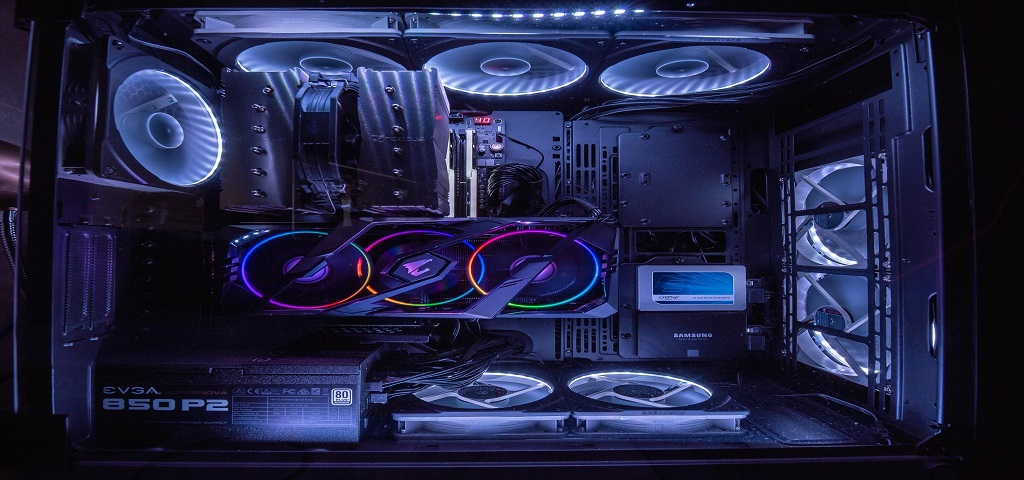
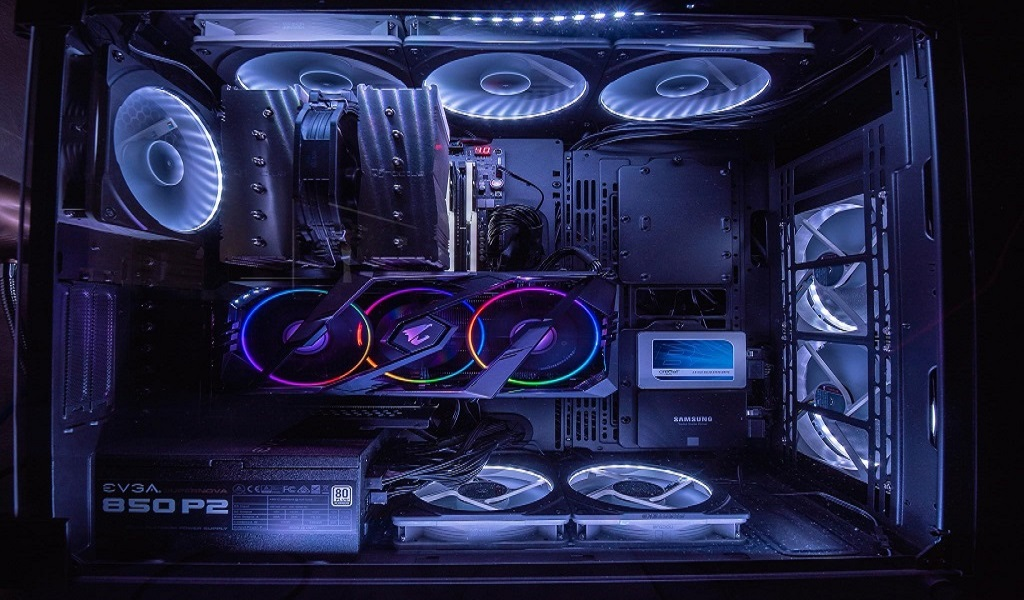
Some changes
Homepage redesign abit, added logo, redesigned tnc/ policy / about us, and abit of image resizing

diff --git a/resources/views/about-us.blade.php b/resources/views/about-us.blade.php
@@ -5,7 +5,7 @@
     <meta charset="utf-8">
     <meta name="viewport" content="width=device-width, initial-scale=1">
 
-    <title>Laravel</title>
+    <title>PCPartPicker | About Us</title>
 
     <!-- Fonts -->
     <link href="https://fonts.googleapis.com/css2?family=Nunito:wght@400;600;700&display=swap" rel="stylesheet">
@@ -18,41 +18,39 @@
 
 <body class="antialiased bg-slate-900">
     @include('components.navbar')
-    <div class="text-center mx-auto font-bold text-9xl mt-20 text-slate-50 dark:text-slate-400">About Us</div>
+    <div class="min-h-screen flex flex-col items-center pt-6 sm:pt-0 ">About Us
 
-    <div class="w-full md:max-w-3xl lg:max-w-4xl xl:max-w-5xl
-                mx-auto sm:my-2 md:my-5 lg:my-10 overflow-x-hidden routeMinHeight
-                text-slate-50 dark:text-slate-400">
+    <div class="w-full mt-6 p-6 mx-auto bg-white shadow-md overflow-hidden sm:rounded-lg prose ">
         <h1 class="text-center text-5xl">Our Story</h1>
-        <br />
-        <p class="">Supreme Computer Systems is a Malaysia IT company focused on providing quality services
-            and solutions to satisfy customers needs. Founded in 22nd July 2001 in Kuantan, Pahang, Supreme Computer
-            Systems has fulfilled and satisfied all customer with excellent services to this date. From the day we start
+
+        <p class="text-xl">PCPartPicker is a Malaysia IT company focused on providing quality services
+            and solutions to satisfy customers needs. Founded in 22nd July 2001 in Kuantan, Pahang, PCPartPicker
+            has fulfilled and satisfied all customer with excellent services to this date. From the day we start
             our business, we only been receiving nothing else but complimenets for our top-notch customer service and
-            after sales service. Supreme Computer Systems has sold a wide variety of Softwares and Hardwares to many
+            after sales service. PCPartPicker has sold a wide variety of Softwares and Hardwares to many
             companies and customers, fulfilling their needs for technological advancement.</p>
         <br />
         <h1 class="text-center text-5xl">Our Goal</h1>
-        <br />
-        <p>
-            “SCS ‘s goal is to improve and enhance the competitive position of our clients by providing them what they
+
+        <p class="text-xl">
+            “PCPartPicker‘s goal is to improve and enhance the competitive position of our clients by providing them what they
             want and desire and continuously servicing them with a full range of professional and quality services. We
             prioritize customer satisfaction by providing guidance and solutions to all our customer's needs, allowing
             you to prioritize on your business objectives.
             Although we are founded in the early days, our team is still growing and aiming to achieve more in the
             future. We are a team equipped with highly motavated, well-trained and dedicated staffs.”
         </p>
-
         <br />
         <h1 class="text-center text-5xl">Contact us</h1>
-        <br/>
-    <p class="text-center">Having troubles or any questions? Feel free to contact us anytime, we are glad to assist you!</p>
-	<p class="text-center"> Whatsapp our sales and technical team at: +6019-3491 2323</p>
-	<p class="text-center"> Support Email: support@bruh.my</p>
-	<p class="text-center">Working Hour: 10:00 A.M. - 7:30 P.M. Everyday</p>
-
-
+        <div class="text-center text-xl">
+            <p>Having troubles or any questions? Feel free to contact us anytime, we are glad to assist you!</p>
+	        <p>Whatsapp our sales and technical team at: +6019-3491 2323</p>
+	        <p>Support Email: support@bruh.my</p>
+	        <p>Working Hour: 10:00 A.M. - 7:30 P.M. Everyday</p>
+        </div>
     </div>
+</div>
+
 </body>
 
 </html>

diff --git a/resources/views/terms.blade.php b/resources/views/terms.blade.php
@@ -1,13 +1,26 @@
-<x-guest-layout>
-    <title>TNC</title>
-    @include('components.navbar')
-    <div class="pt-4 bg-gray-100">
-        <div class="min-h-screen flex flex-col items-center pt-6 sm:pt-0">
-            <div>
-                <x-jet-authentication-card-logo />
-            </div>
+<!DOCTYPE html>
+<html lang="{{ str_replace('_', '-', app()->getLocale()) }}" class="scroll-smooth">
 
-            <div class="w-full sm:max-w-2xl mt-6 p-6 bg-white shadow-md overflow-hidden sm:rounded-lg prose">
+<head>
+    <meta charset="utf-8">
+    <meta name="viewport" content="width=device-width, initial-scale=1">
+
+    <title>PCPartPicker | TNC</title>
+
+    <!-- Fonts -->
+    <link href="https://fonts.googleapis.com/css2?family=Nunito:wght@400;600;700&display=swap" rel="stylesheet">
+
+    <!-- Styles -->
+    @livewireStyles
+    <link rel="stylesheet" href="{{ mix('css/app.css') }}">
+
+</head>
+<body>
+    @include('components.navbar')
+    <div class="pt-4 bg-gray-900">
+        <div class="min-h-screen flex flex-col items-center pt-6 sm:pt-0">
+
+            <div class="w-full mt-6 p-6 bg-white shadow-md overflow-hidden sm:rounded-lg prose">
                 <h1 class="text-center">TERMS AND CONDITIONS</h1>
                <p class="antialiased text-xl text-justify">The following terms and conditions govern all use of the pcpartpicker.com website (the Website) and all content, services and products available at or through the website. The Website is owned and operated by PCPartPicker Sdn Bhd.
                    (“PCPartPicker”). The Website is offered subject to your acceptance without modification of all of the terms and conditions contained herein and all other operating rules, policies (including, without limitation, PCPartPicker’s Privacy Policy)
@@ -16,7 +29,7 @@
                 <p class="antialiased text-xl text-justify">Please read this Agreement carefully before accessing or using the Website. By accessing or using any part of the web site, you agree to become bound by the terms and conditions of this agreement.
                 If you do not agree to all the terms and conditions of this agreement, then you may not access the Website or use any services. If these terms and conditions are considered an offer by PCPartPicker, acceptance is expressly limited to these terms.
                 The Website is available only to individuals who are at least 13 years old.</p>
-            </div>
+
             <span class="items-start text-left m-5 ml-10">
             <ol class="list-decimal ">
                 <li class="font-bold antialiased text-2xl text-left">Your Content</li>
@@ -133,4 +146,5 @@
             </span>
         </div>
     </div>
-</x-guest-layout>
+</body>
+</html>

diff --git a/resources/views/policy.blade.php b/resources/views/policy.blade.php
@@ -1,18 +1,32 @@
-<x-guest-layout>
-    @include('components.navbar')
-    <div class="pt-4 bg-gray-100">
-        <div class="min-h-screen flex flex-col items-center pt-6 sm:pt-0">
-            <div>
-                <x-jet-authentication-card-logo />
-            </div>
+<!DOCTYPE html>
+<html lang="{{ str_replace('_', '-', app()->getLocale()) }}" class="scroll-smooth">
 
-            <div class="w-full sm:max-w-2xl mt-6 p-6 bg-white shadow-md overflow-hidden sm:rounded-lg prose">
+<head>
+    <meta charset="utf-8">
+    <meta name="viewport" content="width=device-width, initial-scale=1">
+
+    <title> PCPartPicker | Policy</title>
+
+    <!-- Fonts -->
+    <link href="https://fonts.googleapis.com/css2?family=Nunito:wght@400;600;700&display=swap" rel="stylesheet">
+
+    <!-- Styles -->
+    @livewireStyles
+    <link rel="stylesheet" href="{{ mix('css/app.css') }}">
+
+</head>
+
+    @include('components.navbar')
+    <div class="pt-4 bg-gray-900">
+        <div class="min-h-screen flex flex-col items-center pt-6 sm:pt-0">
+
+
+            <div class="w-full mt-6 p-6 mx-auto bg-white shadow-md overflow-hidden sm:rounded-lg prose">
                 <h1 class="text-center">PRIVACY POLICY</h1>
                 <p class="antialiased text-xl text-justify">We are committed to safeguarding the privacy of our website visitors and service users. This policy applies where we are acting as a data controller with respect to the personal data of our website
                     visitors and service users; in other words, where we determine the purposes and means of the processing of that personal data. We use cookies on our website. Insofar as those cookies are not strictly necessary for the provision of our website
                     and services, we will ask you to consent to our use of cookies when you first visit our website. Our website incorporates opt-in email controls which affect how we will process your personal data. By using the controls, you can specify whether
                     you would like to receive direct email communications such as comment reply notifications or price drop notifications. You can access the controls via your account preferences. In this policy, "we", "us" and "our" refer to PCPartPicker.</p>
-            </div>
             <span class="items-start text-left m-5 ml-10">
             <ol class="list-decimal ">
                 <li class="font-bold antialiased text-2xl text-left m-2">Quick Human Readable Summary</li>
@@ -192,4 +206,4 @@
         </ol>
         </div>
     </div>
-</x-guest-layout>
+</html>

diff --git a/resources/views/welcome.blade.php b/resources/views/welcome.blade.php
@@ -5,7 +5,7 @@
     <meta charset="utf-8">
     <meta name="viewport" content="width=device-width, initial-scale=1">
 
-    <title>PC Builder | Homepage</title>
+    <title>PCPartPicker | Homepage</title>
 
     <!-- Fonts -->
     <link href="https://fonts.googleapis.com/css2?family=Nunito:wght@400;600;700&display=swap" rel="stylesheet">
@@ -19,14 +19,14 @@
 <body class="antialiased bg-gray-900">
     @include('components.navbar')
 
-    <hr class="my-10 border-none">
+    <hr class="my-6 border-none">
 
     <center>
-        <p class="text-white z-30 mt-10 text-center first-letter: text-6xl">Welcome to PC Builder!</p>
+        <p class="text-white z-30 mt-10 text-center first-letter: text-6xl">Welcome to PCPartPicker!</p>
             <p class="text-white z-30 text-center first-letter: text-3xl">Build your favourite customized PC today!</p>
 
             <hr class="my-10 border-none">
-                        <div class="slideshow px-0 w-1/2 mx-auto width:500 height:500">
+                        <div class="slideshow px-0 w-1/2 mx-auto translate-x-6 border-2 border-indigo-500">
 
                             <div class="mySlides ">
                                 <img src="{{asset('storage/images/Homepage/heroimage.jpg') }}"/>
@@ -43,7 +43,7 @@
                         </div>
     </center>
 
-    <hr class="my-16 border-none">
+    <hr class="my-14 border-none">
 
     <div class="mx-48 overflow-x-hidden">
         <center>

diff --git a/resources/views/components/navbar.blade.php b/resources/views/components/navbar.blade.php
@@ -1,6 +1,7 @@
 <link rel="stylesheet" href="{{asset('css/navbar.css')}}">
 <div class="mb-10">
     <div class="absolute top-0 h-14 w-full bg-white z-10 px-8 flex justify-center border-b">
+        <a href="{{route('homepage')}}"><img src="{{asset('storage/images/Homepage/logo.jpg') }}" class="px-10 absolute top-0 h-14 left-0" /></a>
         <ul class="flex space-x-12 my-auto font-semibold text-xl justify-between">
             <li>
                 <a href="{{route('pc-builder')}}">PC BUILDER</a>

diff --git a/resources/views/pc-builder-guide.blade.php b/resources/views/pc-builder-guide.blade.php
@@ -4,7 +4,7 @@
         <meta charset="utf-8">
         <meta name="viewport" content="width=device-width, initial-scale=1">
 
-        <title>PC Builder Guide</title>
+        <title>PCPartPicker | Guide</title>
 
         <!-- Fonts -->
         <link href="https://fonts.googleapis.com/css2?family=Nunito:wght@400;600;700&display=swap" rel="stylesheet">

diff --git a/resources/views/part-comparer.blade.php b/resources/views/part-comparer.blade.php
@@ -5,7 +5,7 @@
     <meta charset="utf-8">
     <meta name="viewport" content="width=device-width, initial-scale=1">
 
-    <title>PC Part Comparer</title>
+    <title>PCPartPicker | Part Comparer</title>
 
     <!-- Fonts -->
     <link href="https://fonts.googleapis.com/css2?family=Nunito:wght@400;600;700&display=swap" rel="stylesheet">

diff --git a/resources/views/pc-builder.blade.php b/resources/views/pc-builder.blade.php
@@ -5,7 +5,7 @@
     <meta charset="utf-8">
     <meta name="viewport" content="width=device-width, initial-scale=1">
 
-    <title>PC Builder</title>
+    <title>PCPartPicker | PC Builder</title>
 
     <!-- Fonts -->
     <link href="https://fonts.googleapis.com/css2?family=Nunito:wght@400;600;700&display=swap" rel="stylesheet">

diff --git a/routes/web.php b/routes/web.php
@@ -26,7 +26,7 @@ use Illuminate\Support\Facades\Route;
 // All
 Route::get('/', function () {
     return view('welcome');
-});
+})->name('homepage');
 
 Route::get('/pcbuilder', function () {
     return view('pc-builder');
